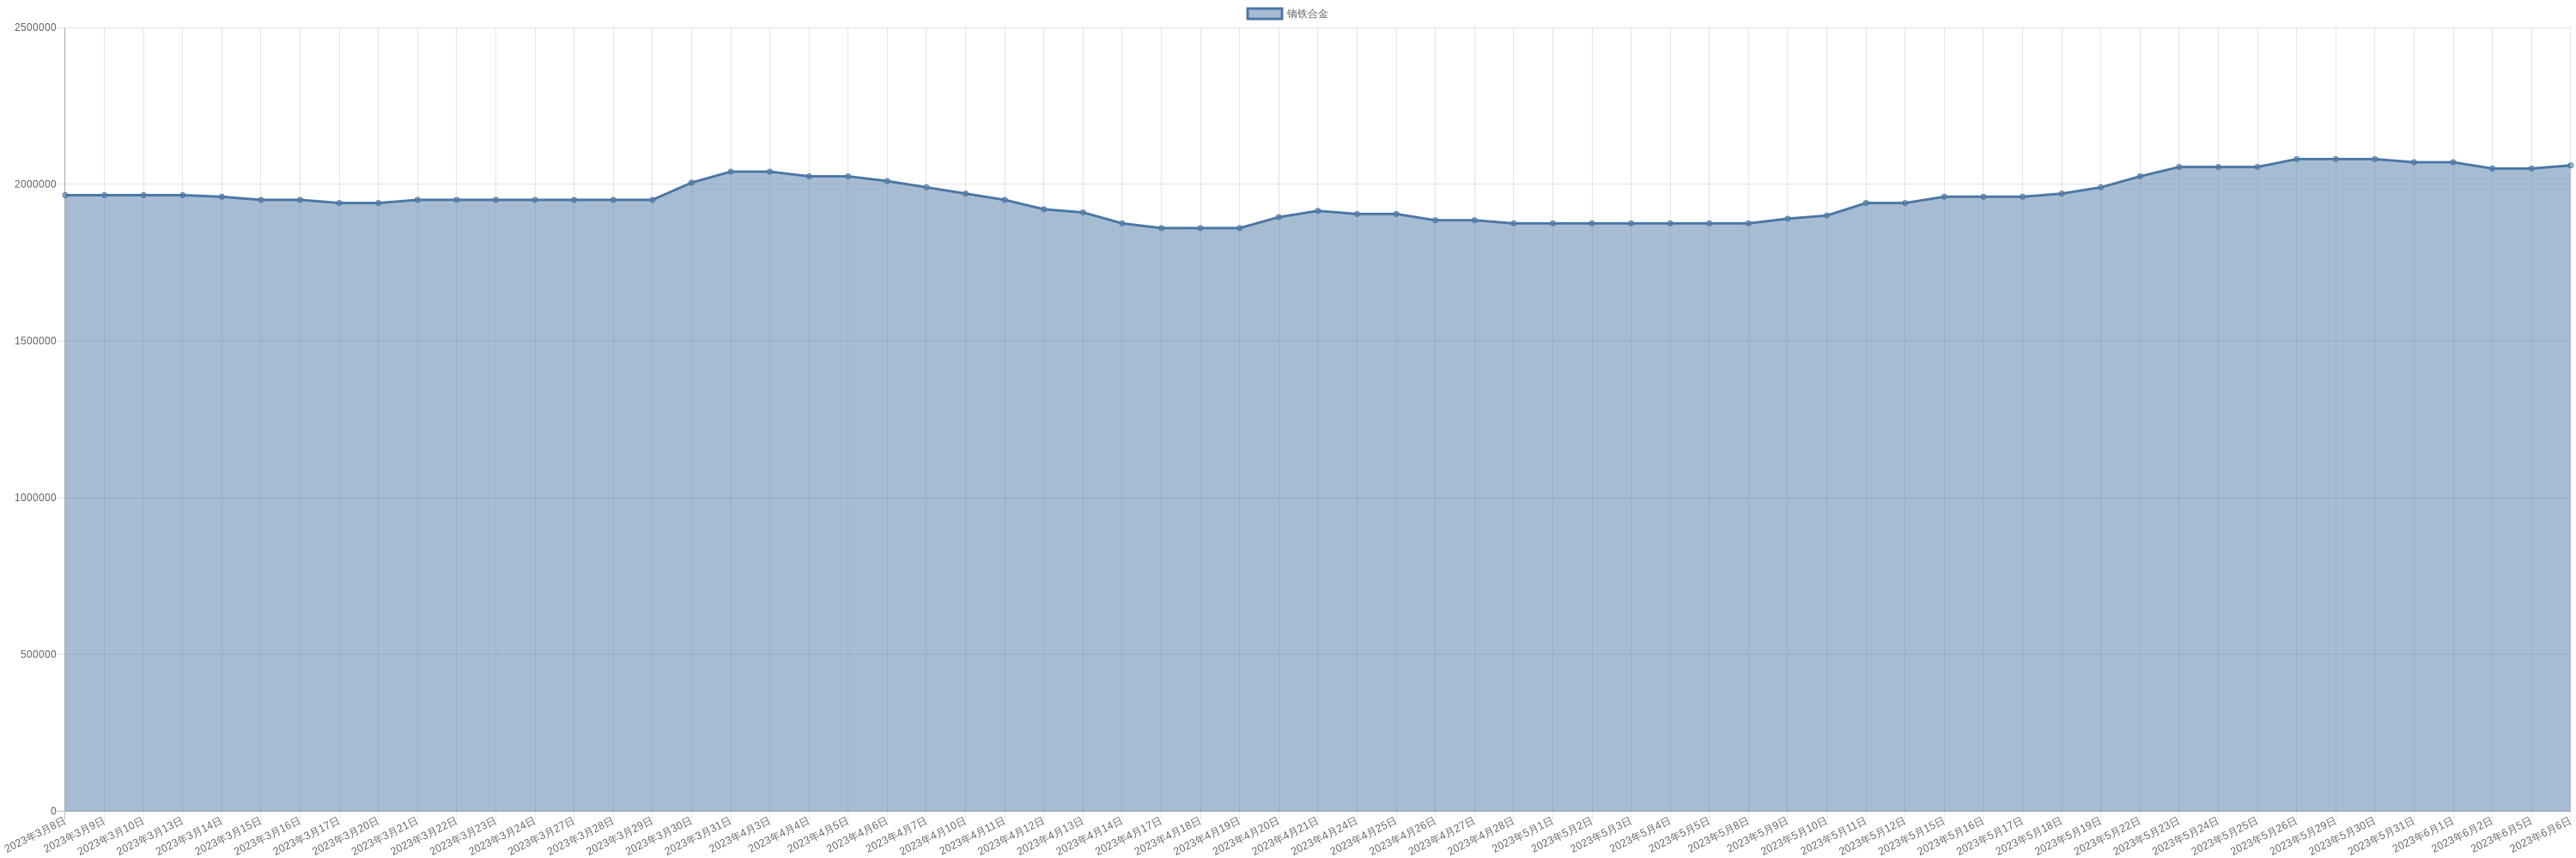
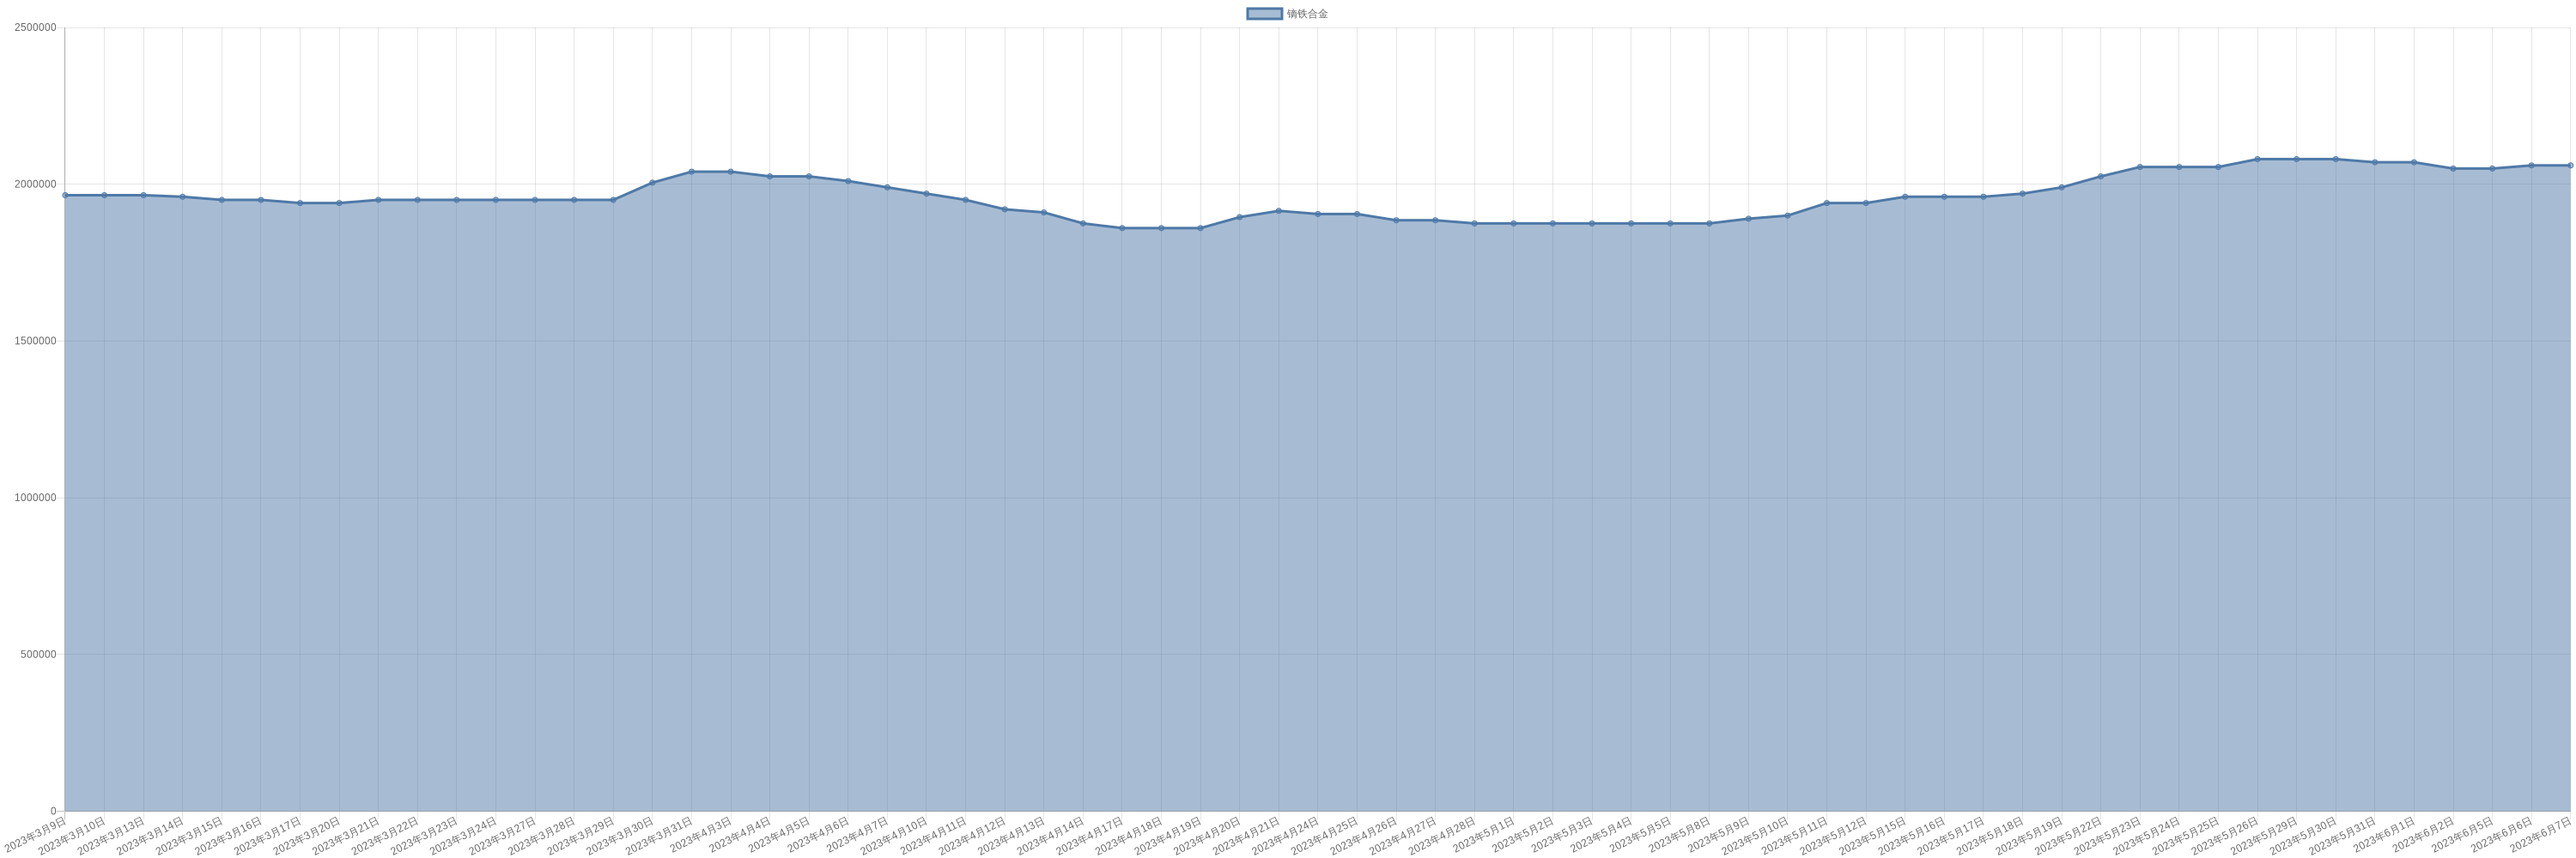
chore: sync commodity monitor

diff --git a/markdown/commodity/crudeOil.md b/markdown/commodity/crudeOil.md
@@ -2,6 +2,8 @@
 
 | 时间 | 价格 | 消息正文 |
 |:--:|:--:|:--:|
+|2023年6月7日Brent|76.29|6月7日Brent原油为76.29|
+|2023年6月7日WTI|71.74|6月7日WTI原油为71.74|
 |2023年6月6日WTI|72.15|6月6日WTI原油为72.15|
 |2023年6月6日Brent|76.71|6月6日Brent原油为76.71|
 |2023年6月5日WTI|71.74|6月5日WTI原油为71.74|

diff --git a/markdown/commodity/praseodymiumNeodymiumOxide.md b/markdown/commodity/praseodymiumNeodymiumOxide.md
@@ -8,6 +8,7 @@
 
 | 时间 | 价格 | 消息正文 |
 |:--:|:--:|:--:|
+|2023年6月7日|500000|6月7日镨钕氧化物为500000.00|
 |2023年6月6日|500000|6月6日镨钕氧化物为500000.00|
 |2023年6月5日|490000|6月5日镨钕氧化物为490000.00|
 |2023年6月2日|490000|6月2日镨钕氧化物为490000.00|

diff --git a/markdown/commodity/dyFeAlloy.md b/markdown/commodity/dyFeAlloy.md
@@ -8,6 +8,7 @@
 
 | 时间 | 价格 | 消息正文 |
 |:--:|:--:|:--:|
+|2023年6月7日|2060000|6月7日镝铁合金为2060000.00|
 |2023年6月6日|2060000|6月6日镝铁合金为2060000.00|
 |2023年6月5日|2050000|6月5日镝铁合金为2050000.00|
 |2023年6月2日|2050000|6月2日镝铁合金为2050000.00|

diff --git a/markdown/commodity/lithiumHydroxide.md b/markdown/commodity/lithiumHydroxide.md
@@ -8,6 +8,7 @@
 
 | 时间 | 价格 | 消息正文 |
 |:--:|:--:|:--:|
+|2023年6月7日|331250|6月7日氢氧化锂为331250.00|
 |2023年6月6日|331250|6月6日氢氧化锂为331250.00|
 |2023年6月5日|326250|6月5日氢氧化锂为326250.00|
 |2023年6月2日|326250|6月2日氢氧化锂为326250.00|

diff --git a/markdown/commodity/praseodymiumNeodymiumAlloy.md b/markdown/commodity/praseodymiumNeodymiumAlloy.md
@@ -8,6 +8,7 @@
 
 | 时间 | 价格 | 消息正文 |
 |:--:|:--:|:--:|
+|2023年6月7日|602500|6月7日镨钕合金为602500.00|
 |2023年6月6日|602500|6月6日镨钕合金为602500.00|
 |2023年6月5日|600000|6月5日镨钕合金为600000.00|
 |2023年6月2日|600000|6月2日镨钕合金为600000.00|

diff --git a/markdown/commodity/dysprosiumMetal.md b/markdown/commodity/dysprosiumMetal.md
@@ -8,6 +8,7 @@
 
 | 时间 | 价格 | 消息正文 |
 |:--:|:--:|:--:|
+|2023年6月7日|2680000|6月7日金属镝为2680000.00|
 |2023年6月6日|2680000|6月6日金属镝为2680000.00|
 |2023年6月5日|2680000|6月5日金属镝为2680000.00|
 |2023年6月2日|2680000|6月2日金属镝为2680000.00|

diff --git a/markdown/commodity/dysprosiumOxide.md b/markdown/commodity/dysprosiumOxide.md
@@ -8,6 +8,7 @@
 
 | 时间 | 价格 | 消息正文 |
 |:--:|:--:|:--:|
+|2023年6月7日|2105000|6月7日氧化镝为2105000.00|
 |2023年6月6日|2090000|6月6日氧化镝为2090000.00|
 |2023年6月5日|2080000|6月5日氧化镝为2080000.00|
 |2023年6月2日|2080000|6月2日氧化镝为2080000.00|

diff --git a/markdown/commodity/liquefiedNaturalGas.md b/markdown/commodity/liquefiedNaturalGas.md
@@ -8,6 +8,7 @@
 
 | 时间 | 价格 | 消息正文 |
 |:--:|:--:|:--:|
+|2023年6月7日|3574|6月7日液化天然气为3574.00|
 |2023年6月6日|3522|6月6日液化天然气为3522.00|
 |2023年6月5日|3520|6月5日液化天然气为3520.00|
 |2023年6月2日|3684|6月2日液化天然气为3684.00|

diff --git a/markdown/commodity/lithiumIronPhosphate.md b/markdown/commodity/lithiumIronPhosphate.md
@@ -8,6 +8,7 @@
 
 | 时间 | 价格 | 消息正文 |
 |:--:|:--:|:--:|
+|2023年6月7日|92000|6月7日磷酸铁锂为92000.00|
 |2023年6月6日|92000|6月6日磷酸铁锂为92000.00|
 |2023年6月5日|92000|6月5日磷酸铁锂为92000.00|
 |2023年6月2日|92000|6月2日磷酸铁锂为92000.00|

diff --git a/markdown/commodity/neodymium.md b/markdown/commodity/neodymium.md
@@ -8,6 +8,7 @@
 
 | 时间 | 价格 | 消息正文 |
 |:--:|:--:|:--:|
+|2023年6月7日|635000|6月7日金属钕为635000.00|
 |2023年6月6日|635000|6月6日金属钕为635000.00|
 |2023年6月5日|630000|6月5日金属钕为630000.00|
 |2023年6月2日|630000|6月2日金属钕为630000.00|

diff --git a/markdown/commodity/neodymiumOxide.md b/markdown/commodity/neodymiumOxide.md
@@ -8,6 +8,7 @@
 
 | 时间 | 价格 | 消息正文 |
 |:--:|:--:|:--:|
+|2023年6月7日|505000|6月7日氧化钕为505000.00|
 |2023年6月6日|505000|6月6日氧化钕为505000.00|
 |2023年6月5日|500000|6月5日氧化钕为500000.00|
 |2023年6月2日|500000|6月2日氧化钕为500000.00|

diff --git a/markdown/commodity/praseodymium.md b/markdown/commodity/praseodymium.md
@@ -8,6 +8,7 @@
 
 | 时间 | 价格 | 消息正文 |
 |:--:|:--:|:--:|
+|2023年6月7日|635000|6月7日金属镨为635000.00|
 |2023年6月6日|635000|6月6日金属镨为635000.00|
 |2023年6月5日|635000|6月5日金属镨为635000.00|
 |2023年6月2日|635000|6月2日金属镨为635000.00|
